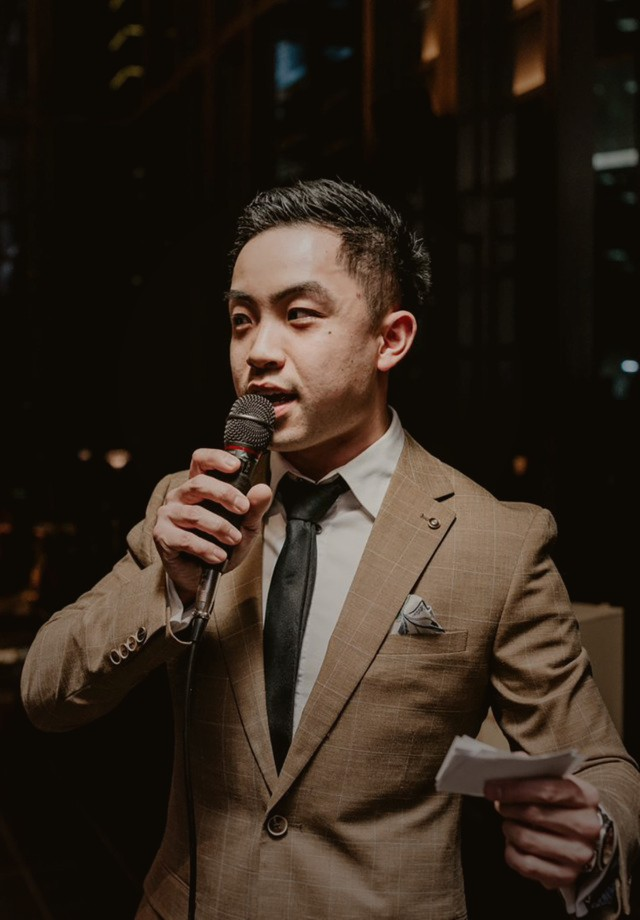
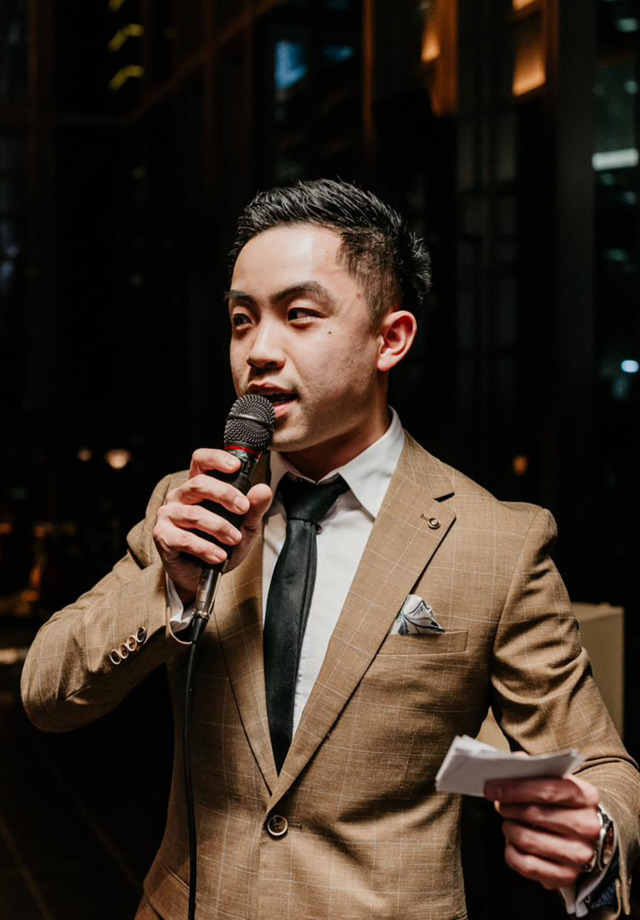
Darken hero tint slightly, add branded social share card

diff --git a/index.html b/index.html
@@ -24,13 +24,16 @@ j=d.createElement(s),dl=l!='dataLayer'?'&l='+l:'';j.async=true;j.src=
 <meta property="og:title" content="Andrew Mo — Cantonese & Mandarin Wedding MC">
 <meta property="og:description" content="Cantonese wedding MC for ABC couples — ceremonies and receptions hosted in English, Cantonese, and Mandarin.">
 <meta property="og:url" content="https://amoopus.github.io/weddingMC/">
-<meta property="og:image" content="https://amoopus.github.io/weddingMC/assets/images/mc-1.jpg">
+<meta property="og:image" content="https://amoopus.github.io/weddingMC/assets/images/social-share.png">
+<meta property="og:image:width" content="1200">
+<meta property="og:image:height" content="630">
+<meta property="og:image:alt" content="Andrew Mo — Wedding Master of Ceremonies. Multilingual hosting for ceremonies and receptions.">
 
 <!-- Twitter Card -->
 <meta name="twitter:card" content="summary_large_image">
 <meta name="twitter:title" content="Andrew Mo — Cantonese & Mandarin Wedding MC">
 <meta name="twitter:description" content="Cantonese wedding MC for ABC couples — ceremonies and receptions hosted fluently in English, Cantonese, and Mandarin.">
-<meta name="twitter:image" content="https://amoopus.github.io/weddingMC/assets/images/mc-1.jpg">
+<meta name="twitter:image" content="https://amoopus.github.io/weddingMC/assets/images/social-share.png">
 
 <link rel="preconnect" href="https://fonts.googleapis.com">
 <link rel="preconnect" href="https://fonts.gstatic.com" crossorigin>
@@ -175,8 +178,7 @@ height="0" width="0" style="display:none;visibility:hidden"></iframe></noscript>
     <div class="section-inner about-inner">
       <div class="about-copy">
         <h2 id="about-heading">A steady voice, not the centre of attention</h2>
-        <p>A trusted choice for ABC (Australian-Born Chinese) couples, Andrew delivers seamless bicultural weddings—English for friends, Cantonese and Mandarin for aunties and uncles, with nothing lost in translation.
-</p>
+        <p>A trusted choice for ABC (Australian-Born Chinese) couples, Andrew delivers seamless bicultural weddings—English for friends, Cantonese and Mandarin for aunties and uncles, with nothing lost in translation.</p>
         <p>His approach: learn your story well enough to introduce you like an old friend, keep the timeline on track, and keep the energy flowing smoothly from start to finish.</p>
         <p>He works closely with your planner and DJ ahead of time, so on the day itself the only thing you'll notice is that everything simply happened on cue.</p>
       </div>

diff --git a/server/static/styles.css b/server/static/styles.css
@@ -225,7 +225,7 @@ img { max-width: 100%; display: block; }
   position: absolute;
   inset: 0;
   background:
-    radial-gradient(60% 60% at 50% 0%, rgba(21, 17, 14, 0.16) 0%, rgba(21, 17, 14, 0.4) 60%, rgba(21, 17, 14, 0.58) 100%);
+    radial-gradient(60% 60% at 50% 0%, rgba(21, 17, 14, 0.16) 0%, rgba(21, 17, 14, 0.34) 60%, rgba(21, 17, 14, 0.5) 100%);
   z-index: 1;
 }
 .hero-inner {

diff --git a/styles.css b/styles.css
@@ -225,7 +225,7 @@ img { max-width: 100%; display: block; }
   position: absolute;
   inset: 0;
   background:
-    radial-gradient(60% 60% at 50% 0%, rgba(21, 17, 14, 0.16) 0%, rgba(21, 17, 14, 0.4) 60%, rgba(21, 17, 14, 0.58) 100%);
+    radial-gradient(60% 60% at 50% 0%, rgba(21, 17, 14, 0.16) 0%, rgba(21, 17, 14, 0.34) 60%, rgba(21, 17, 14, 0.5) 100%);
   z-index: 1;
 }
 .hero-inner {
